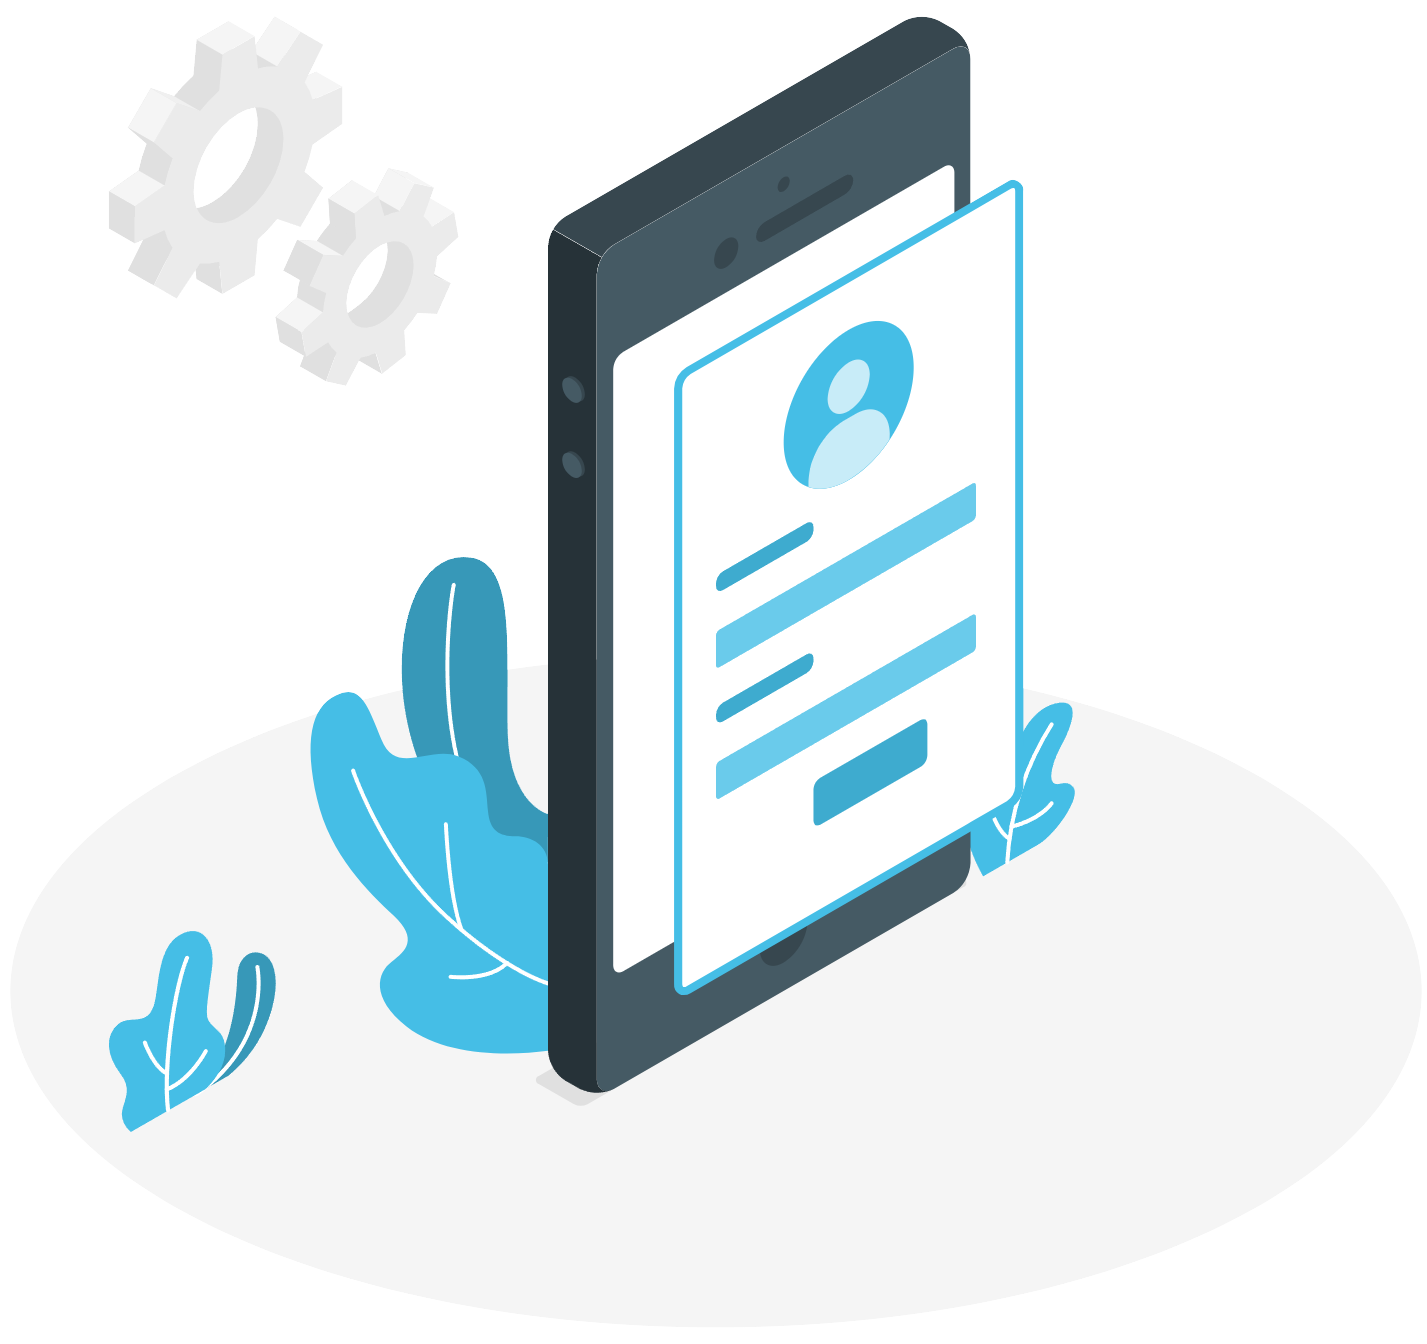
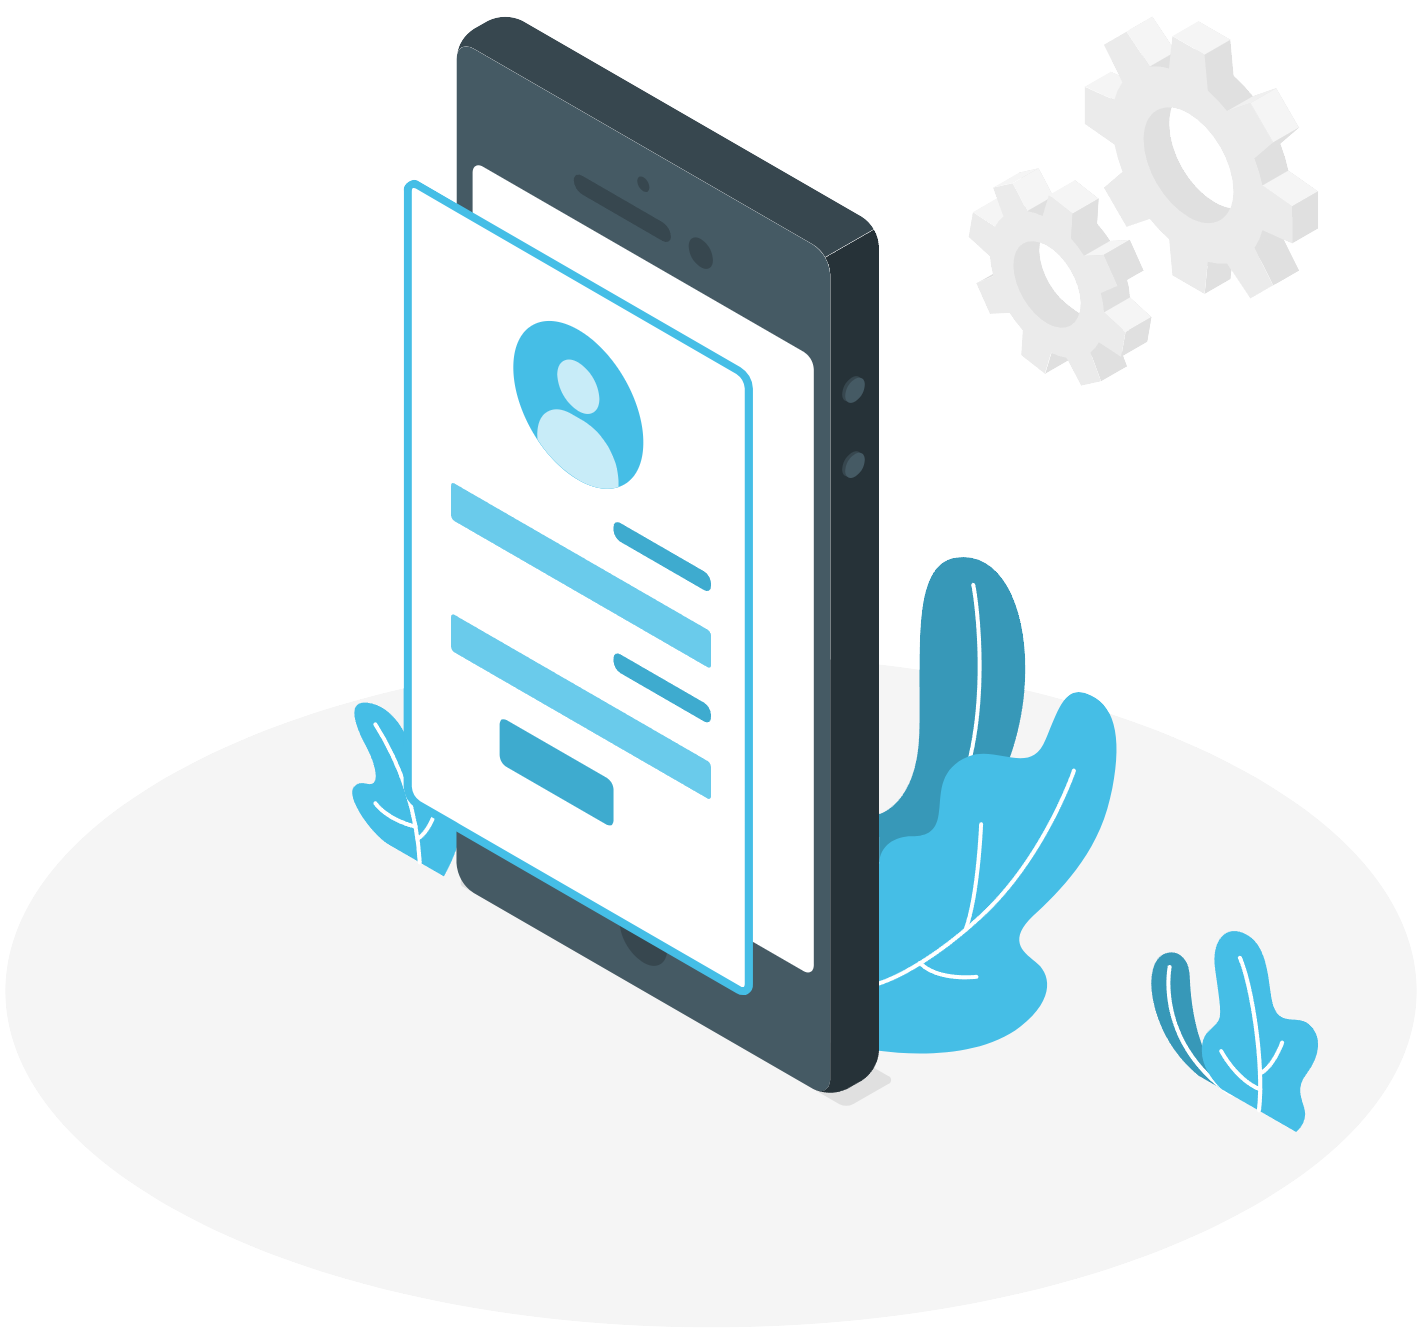
Adição do toast e alguns efeitos do mesmo

diff --git a/view/assets/js/global/main.js b/view/assets/js/global/main.js
@@ -1,4 +1,3 @@
-
 // NAV-BAR MOBILE
 function menu_mobile() {
     const nav_bar = document.getElementById('nav-bar');
@@ -6,7 +5,6 @@ function menu_mobile() {
     nav_bar.classList.toggle('active');
     hamburguer.classList.toggle('active');
 }
-
 
 window.addEventListener('resize', () => {
     const nav_bar = document.getElementById('nav-bar');
@@ -16,6 +14,7 @@ window.addEventListener('resize', () => {
         hamburguer.classList.remove('active');
     }
 });
+
 
 // EFEITO POPUP 
 function abrir_popup(popupId) {
@@ -35,7 +34,50 @@ function abrir_popup(popupId) {
     }
 }
 
+// FECHAR O POPUP
 function fechar_popup(popupId) {
     const fundoPopup = document.getElementById(popupId);
     fundoPopup.classList.remove('ativo');
+}
+
+
+// Copiar o link da ong/projeto no popup de compartilhar
+function copiar_link(toast) {
+    let input = document.getElementById("link-compartilhar");
+    input.select();
+    input.setSelectionRange(0, 99999); // Compatibilidade com iOS
+
+    if (navigator.clipboard) {
+        navigator.clipboard.writeText(input.value).then(() => {
+            mostrar_toast(toast);
+            fechar_popup('compartilhar-popup');
+        }).catch(() => {
+            document.execCommand("copy");
+            mostrar_toast(toast);
+            fechar_popup('compartilhar-popup');
+        });
+    } else {
+        document.execCommand("copy");
+        mostrar_toast(toast);
+        fechar_popup('compartilhar-popup');
+    }
+}
+
+
+// MOSTRAR UM ALERTA QUE SOME DEPOIS
+function mostrar_toast(id) {
+    let toast = document.getElementById(id);
+    toast.style.right = "0px";
+    toast.style.opacity = "1";
+
+    setTimeout(() => {
+        toast.style.right = "-300px";
+        toast.style.opacity = "0";
+    }, 2000);
+}
+
+// Recuperar senha dos login
+function recuperar_conta(toast, popup) {
+    fechar_popup(popup);
+    mostrar_toast(toast);
 }

diff --git a/view/assets/css/pages/doador/login.css b/view/assets/css/pages/doador/login.css
@@ -25,6 +25,7 @@ main {
     justify-content: space-between;
     height: 100%;
     width: 300px;
+    transition: .3s;
 }
 
 form h1 {
@@ -72,6 +73,7 @@ form .remember-forgot {
     font-size: 11px;
     justify-content: space-between;
     align-items: center;
+    gap: 5px;
 }
 
 .remember-forgot .remember {
@@ -88,7 +90,7 @@ form .remember-forgot {
 }
 
 .remember-forgot button:hover {
-    color: blue;
+    color: var(--cor-azul-escuro);
 }
 
 /* Área de "Criar Conta" */
@@ -114,7 +116,6 @@ form span a {
 /*===== IMAGEM =====*/
 #container-login img {
     width: 350px;
-    transform: rotateY(180deg);
 }
 
 /* POPUP RECUPERAR SENHA */
@@ -185,10 +186,11 @@ form span a {
     }
 
     #container-login form {
-        width: 100%;
+        
+        width: 65vw;
     }
 
-    #container-login form .remember-forgot {
+    /* #container-login form .remember-forgot {
         flex-direction: column;
-    }
+    } */
 }

diff --git a/view/assets/css/components/compartilhar.css b/view/assets/css/components/compartilhar.css
@@ -34,3 +34,29 @@
     flex-direction: column;
     gap: 20px;
 }
+
+
+.toast {
+    position: fixed;
+    top: 60px; /* Começa fora da tela */
+    right: -200px;
+    max-width: 300px;
+    background-color: rgb(255, 255, 255);
+    border-left: 6px solid limegreen;
+    color: rgb(0, 0, 0);
+    padding: 15px;
+    border-radius: 0 4px 4px 0;
+    font-size: 16px;
+    z-index: 1000;
+    transition: right 0.5s ease-in-out, opacity 0.5s ease-in-out;
+    opacity: 0;
+    display: flex;
+    align-items: center;
+    gap: 10px;
+    box-shadow: rgba(0, 0, 0, 0.25) 0px 14px 28px, rgba(0, 0, 0, 0.22) 0px 10px 10px;
+}
+
+.toast i {
+    color: limegreen;
+    font-size: 20px
+}

diff --git a/view/assets/css/components/popup.css b/view/assets/css/components/popup.css
@@ -52,8 +52,12 @@
     display: flex;
     justify-content: center;
     align-items: center;
-    color: crimson;
+    color: black;
     border: none;
-    border: 2px solid brown;
+    border: 1px solid rgba(0, 0, 0, 0.1);
+    transition: .3s;
 }
 
+#x-fechar:hover {
+    color: brown;
+}

diff --git a/view/assets/css/pages/visitante/home.css b/view/assets/css/pages/visitante/home.css
@@ -1,4 +1,8 @@
-/* Importando o CSS do Card da ONG */
+#nav-bar ul li:nth-child(1) a {
+    color: var(--cor-amarelo);
+    font-weight: bold;
+}
+
 .secoes {
     padding: 0 20px;
 }

diff --git a/view/assets/css/pages/visitante/noticias.css b/view/assets/css/pages/visitante/noticias.css
@@ -1,3 +1,8 @@
+#nav-bar ul li:nth-child(4) a {
+    color: var(--cor-amarelo);
+    font-weight: bold;
+}
+
 body {
     background-color: aliceblue;
 }

diff --git a/view/assets/css/pages/visitante/catalogo.css b/view/assets/css/pages/visitante/catalogo.css
@@ -1,3 +1,8 @@
+.active {
+    color: var(--cor-amarelo);
+    font-weight: bold;
+}
+
 body {
     background-color: aliceblue;
 }

diff --git a/view/pages/visitante/perfil-ong.php b/view/pages/visitante/perfil-ong.php
@@ -47,12 +47,12 @@
                     <h3>Doadores</h3>
                 </div>
                 <div class="mini-cards">
-                    <?php require '../../components/card-doador.php'; ?>
-                    <?php require '../../components/card-doador.php'; ?>
-                    <?php require '../../components/card-doador.php'; ?>
-                    <?php require '../../components/card-doador.php'; ?>
-                    <?php require '../../components/card-doador.php'; ?>
-                    <?php require '../../components/card-doador.php'; ?>
+                    <?php require '../../components/cards/card-doador.php'; ?>
+                    <?php require '../../components/cards/card-doador.php'; ?>
+                    <?php require '../../components/cards/card-doador.php'; ?>
+                    <?php require '../../components/cards/card-doador.php'; ?>
+                    <?php require '../../components/cards/card-doador.php'; ?>
+                    <?php require '../../components/cards/card-doador.php'; ?>
                 </div>
             </div>
             <div class="section-item">
@@ -61,12 +61,12 @@
                     <h3>Voluntários</h3>
                 </div>
                 <div class="mini-cards">
-                    <?php require '../../components/card-voluntario.php'; ?>
-                    <?php require '../../components/card-voluntario.php'; ?>
-                    <?php require '../../components/card-voluntario.php'; ?>
-                    <?php require '../../components/card-voluntario.php'; ?>
-                    <?php require '../../components/card-voluntario.php'; ?>
-                    <?php require '../../components/card-voluntario.php'; ?>
+                    <?php require '../../components/cards/card-voluntario.php'; ?>
+                    <?php require '../../components/cards/card-voluntario.php'; ?>
+                    <?php require '../../components/cards/card-voluntario.php'; ?>
+                    <?php require '../../components/cards/card-voluntario.php'; ?>
+                    <?php require '../../components/cards/card-voluntario.php'; ?>
+                    <?php require '../../components/cards/card-voluntario.php'; ?>
                 </div>
             </div>
         </section>
@@ -77,8 +77,8 @@
                     <h3>Notícias</h3>
                 </div>
                 <div class="mini-cards">
-                    <?php require '../../components/card-noticia.php'; ?>
-                    <?php require '../../components/card-noticia.php'; ?>
+                    <?php require '../../components/cards/card-noticia.php'; ?>
+                    <?php require '../../components/cards/card-noticia.php'; ?>
                 </div>
             </div>
         </section>
@@ -89,10 +89,10 @@
                     <h3>Projetos</h3>
                 </div>
                 <div class="mini-cards">
-                    <?php require '../../components/card-projeto.php'; ?>
-                    <?php require '../../components/card-projeto.php'; ?>
-                    <?php require '../../components/card-projeto.php'; ?>
-                    <?php require '../../components/card-projeto.php'; ?>
+                    <?php require '../../components/cards/card-projeto.php'; ?>
+                    <?php require '../../components/cards/card-projeto.php'; ?>
+                    <?php require '../../components/cards/card-projeto.php'; ?>
+                    <?php require '../../components/cards/card-projeto.php'; ?>
                 </div>
             </div>
         </section>

diff --git a/view/components/header-adm.php b/view/components/header-adm.php
@@ -24,8 +24,37 @@
 </head>
 
 <body>
-    <?php 
-        require_once 'navbar-adm.php'; //NAVBAR
-        // require_once 'compartilhar.php'; POPUP DE COMPARTILHAR
-    ?>
-    
+    <!-- NAVBAR -->
+    <header id="header-adm">
+        <div class="container">
+            <div class="logo">
+                <img src="../../assets/images/global/Logo-Organizer.png">
+                <h1>Organizer</h1>
+            </div>
+            <nav id="nav-bar">
+                <ul>
+                    <li><a href="home.php">Home</a></li>
+                    <li><a href="ver-ong.php">Ongs</a></li>
+                    <li><a href="ver-projetos.php">Projetos</a></li>
+                    <li><a href="ver-doadores.php">Doadores</a></li>
+                </ul>
+            </nav>
+            <div id="btns-adm">
+                <a id="parceria" href="#">
+                    <i class="fa-solid fa-handshake"></i>
+                    <span>Parcerias</span>
+                </a>
+                <a id="relatorio" href="#">
+                    <i class="fa-solid fa-chart-line"></i>
+                    <span>Relatórios</span>
+                </a>
+                <button id="conta">
+                    <i class="fa-solid fa-user"></i>
+                    <span>Conta</span>
+                </button>
+                <div class="btn-login">
+                    <button onclick="menu_mobile()" id="hamburguer"></button>
+                </div>
+            </div>
+        </div>
+    </header>

diff --git a/view/pages/doador/login.php b/view/pages/doador/login.php
@@ -11,7 +11,7 @@
             <div class="input-group">
                 <div class="input-item">
                     <label for="email">Email<span>*</span></label>
-                    <input id="email" type="email" maxlength="64" placeholder="usúario@conta.com" required>
+                    <input id="email" type="email" maxlength="45" placeholder="usúario@conta.com" required>
                 </div>
                 <div class="input-item">
                     <label for="senha">Senha<span>*</span></label>
@@ -38,17 +38,20 @@
         <div>
             <h2>RECUPERAR SENHA</h2>
             <p>Digite seu email abaixo para receber um link de recuperação</p>
-            <form action="">
+            <form action="" onsubmit="recuperar_conta('toast-recuperar-conta', 'fundo-cadastro-popup'); return false;">
                 <div class="input-item">
                     <label for="recuperar-email">Email<span>*</span></label>
-                    <input id="recuperar-email" type="email" maxlength="64" placeholder="usúario@conta.com" required>
+                    <input id="recuperar-email" type="email" maxlength="45" placeholder="usúario@conta.com" required>
                 </div>
                 <button class="btn">ENVIAR</button>
             </form>
         </div>
     </div>
 </div>
-
+<div id="toast-recuperar-conta" class="toast">
+    <i class="fa-regular fa-circle-check"></i>
+    Email enviado com sucesso!
+</div>
 
 <?php
     $jsPagina = [];

diff --git a/view/components/header.php b/view/components/header.php
@@ -24,8 +24,29 @@
 </head>
 
 <body>
+    <!-- NAVBAR -->
+    <header>
+        <div class="container">
+            <div class="logo">
+            <img src="../../assets/images/global/Logo-Organizer.png">
+            <h1>Organizer</h1>
+            </div>
+            <nav id="nav-bar">
+                <ul>
+                    <li><a href="../../../index.php">Home</a></li>
+                    <li><a href="ongs.php" class="<?= (basename($_SERVER['PHP_SELF']) == 'ongs.php') ? 'active' : ''; ?>">Ongs</a></li>
+                    <li><a href="projetos.php" class="<?= (basename($_SERVER['PHP_SELF']) == 'projetos.php') ? 'active' : ''; ?>">Projetos</a></li>
+                    <li><a href="../visitante/tela-noticia.php">Notícias</a></li>
+                </ul>
+            </nav>
+            <div class="btn-login">
+                <button class="btn" id="openPopup" onclick="abrir_popup('fundo-login-popup')">LOGIN</button>
+                <button onclick="menu_mobile()" id="hamburguer"></button>
+            </div>
+        </div>
+    </header>
+    
     <?php 
-        require_once 'navbar.php'; //NAVBAR
         require_once 'login-popup.php'; //EFEITO POPUP DO LOGIN
         require_once 'requer-login.php'; //POPUP LOGIN OBRIGATORIO
         require_once 'compartilhar.php'; //POPUP DE COMPARTILHAR

diff --git a/view/components/compartilhar.php b/view/components/compartilhar.php
@@ -7,8 +7,13 @@
         <div class="msg">
             <h1>COMPARTILHAR</h1>
             <p>Copie o link e compartilhe com mais pessoas</p>
-            <input type="text" value="https://ong.projetos/4342.com" readonly>
-            <button class="btn">COPIAR</button>
+            <input type="text" value="https://ong.projetos/4342.com" id="link-compartilhar" readonly>
+            <button class="btn" onclick="copiar_link('toast-copiar')">COPIAR</button>
         </div>
     </div>
+</div>
+<!-- Toast de link copiado -->
+<div id="toast-copiar" class="toast">
+    <i class="fa-regular fa-circle-check"></i>
+    Link copiado com sucesso!
 </div>
